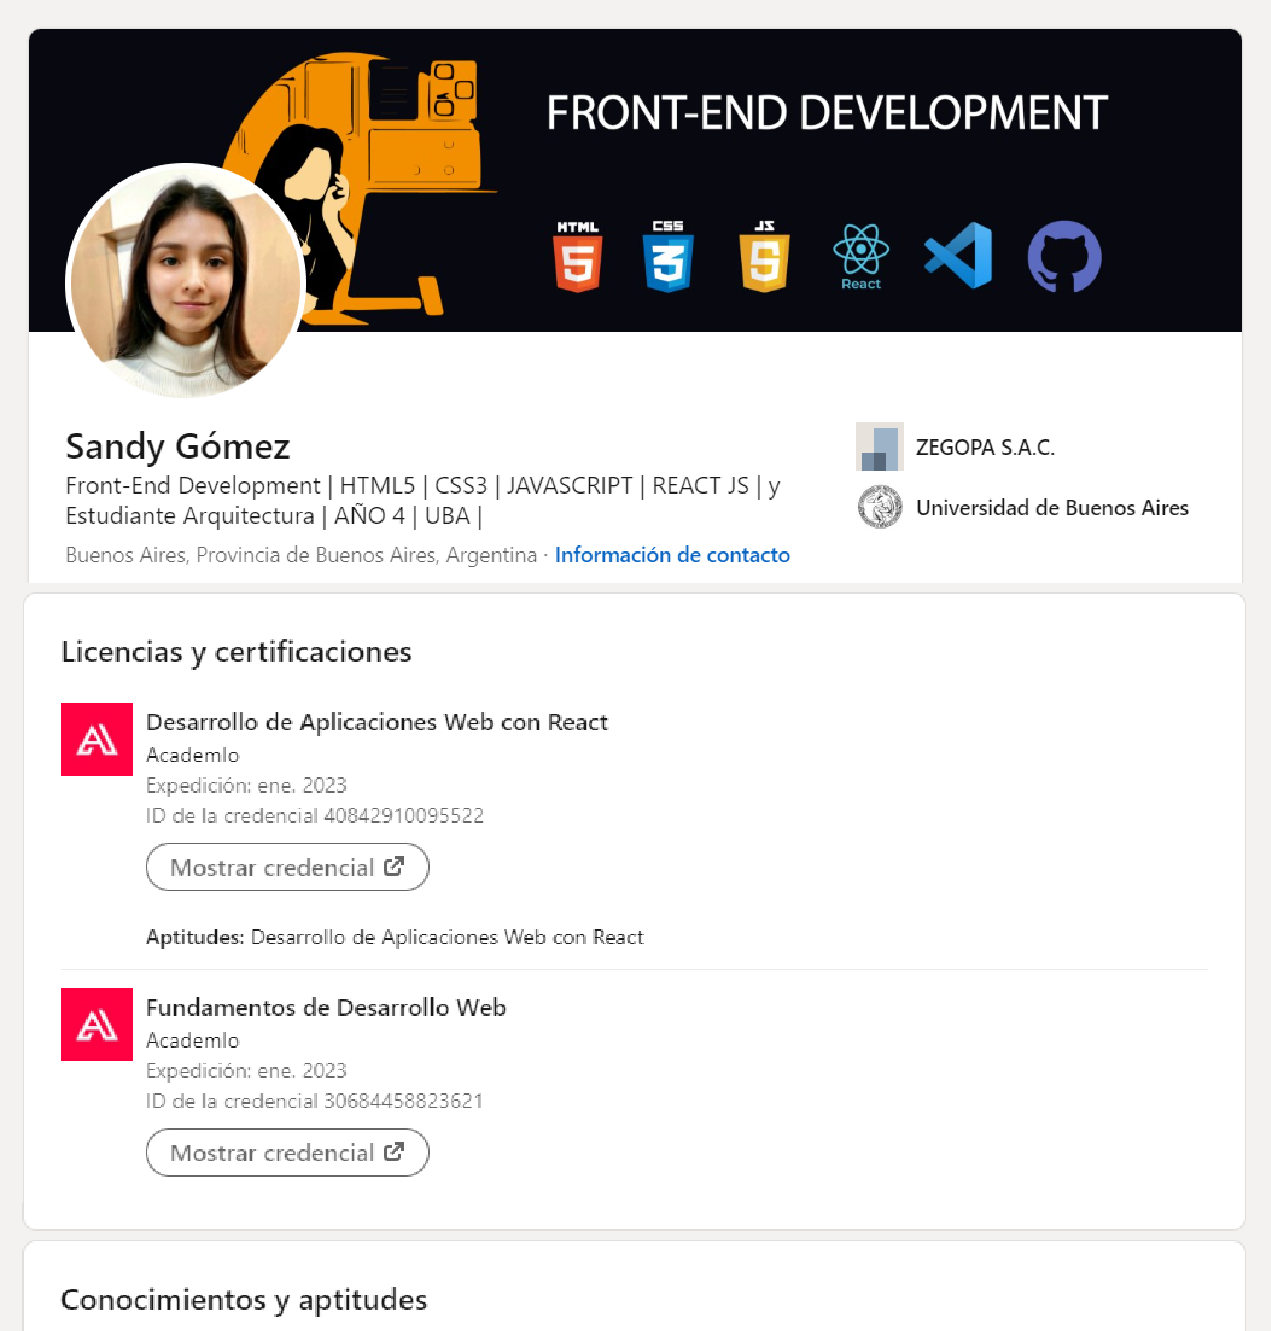
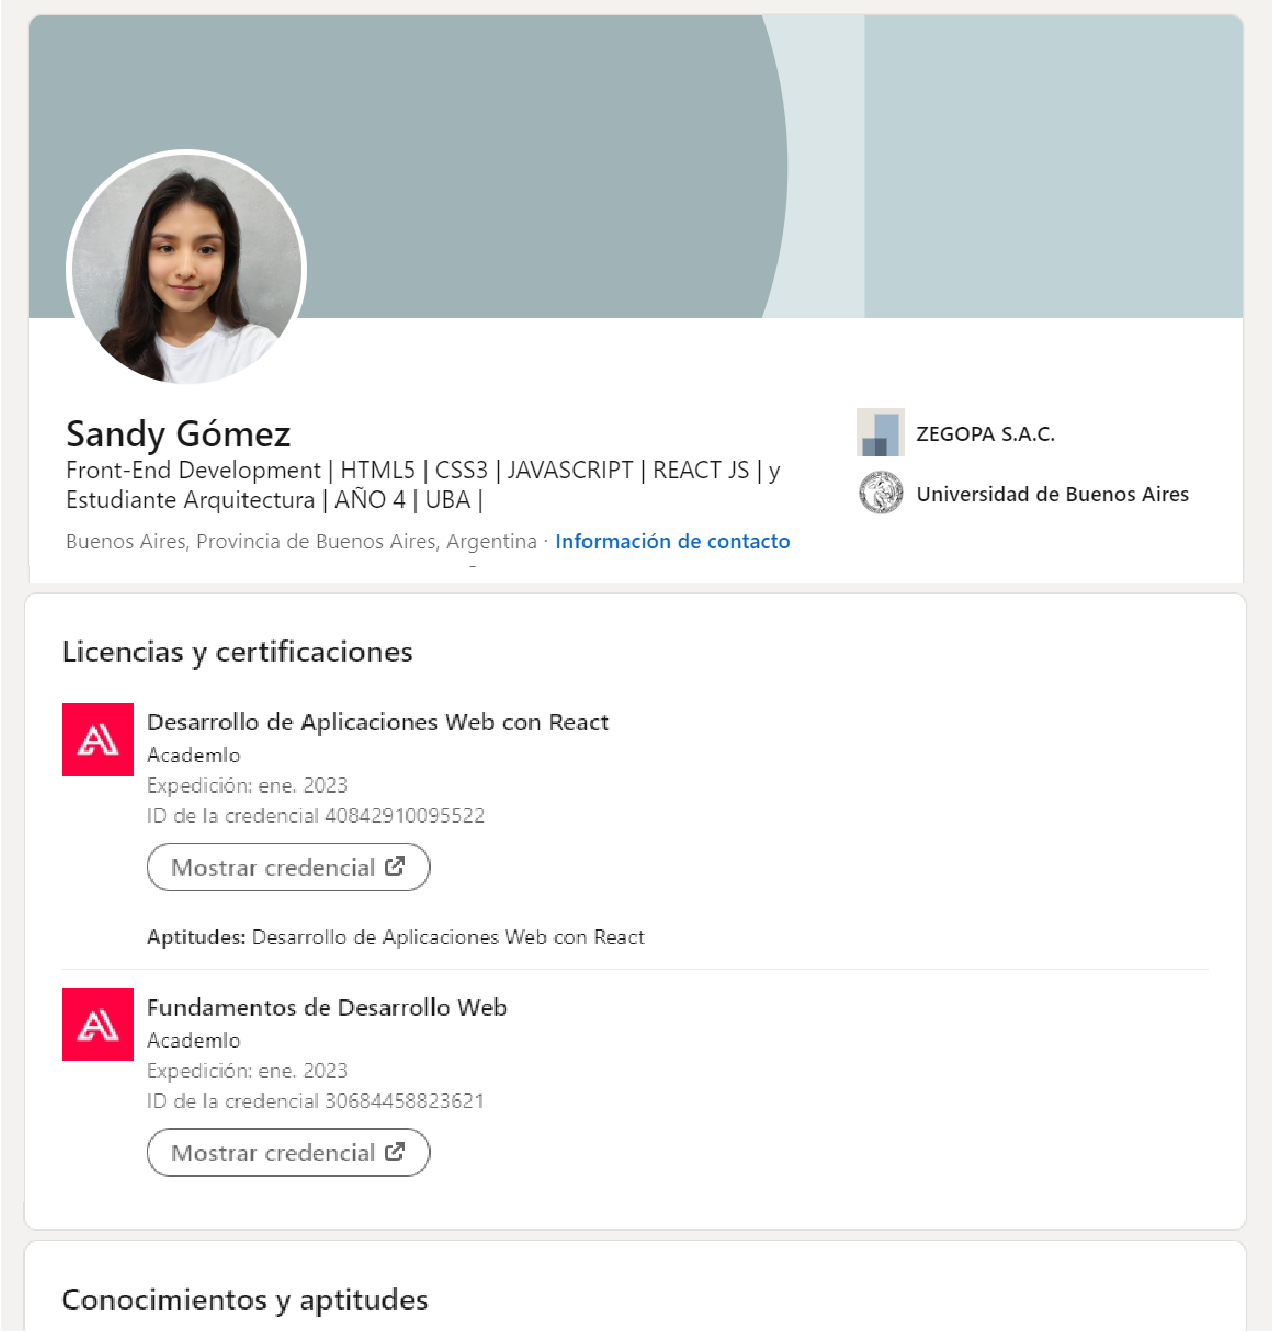
cambio de foto de perfil, linkedin y correo

diff --git a/index.html b/index.html
@@ -355,7 +355,7 @@
             <i class="bx bxs-envelope"></i>
 
             <span class="contact__info-mail">
-              <a class="mail" id="mail" href="mailto:test@correo.com"> sandy17gomez@gmail.com </a>
+              <a class="mail" id="mail" href="mailto:test@correo.com"> sandy.gomez.pulido@gmail.com </a>
             </span>
           </div>
 
